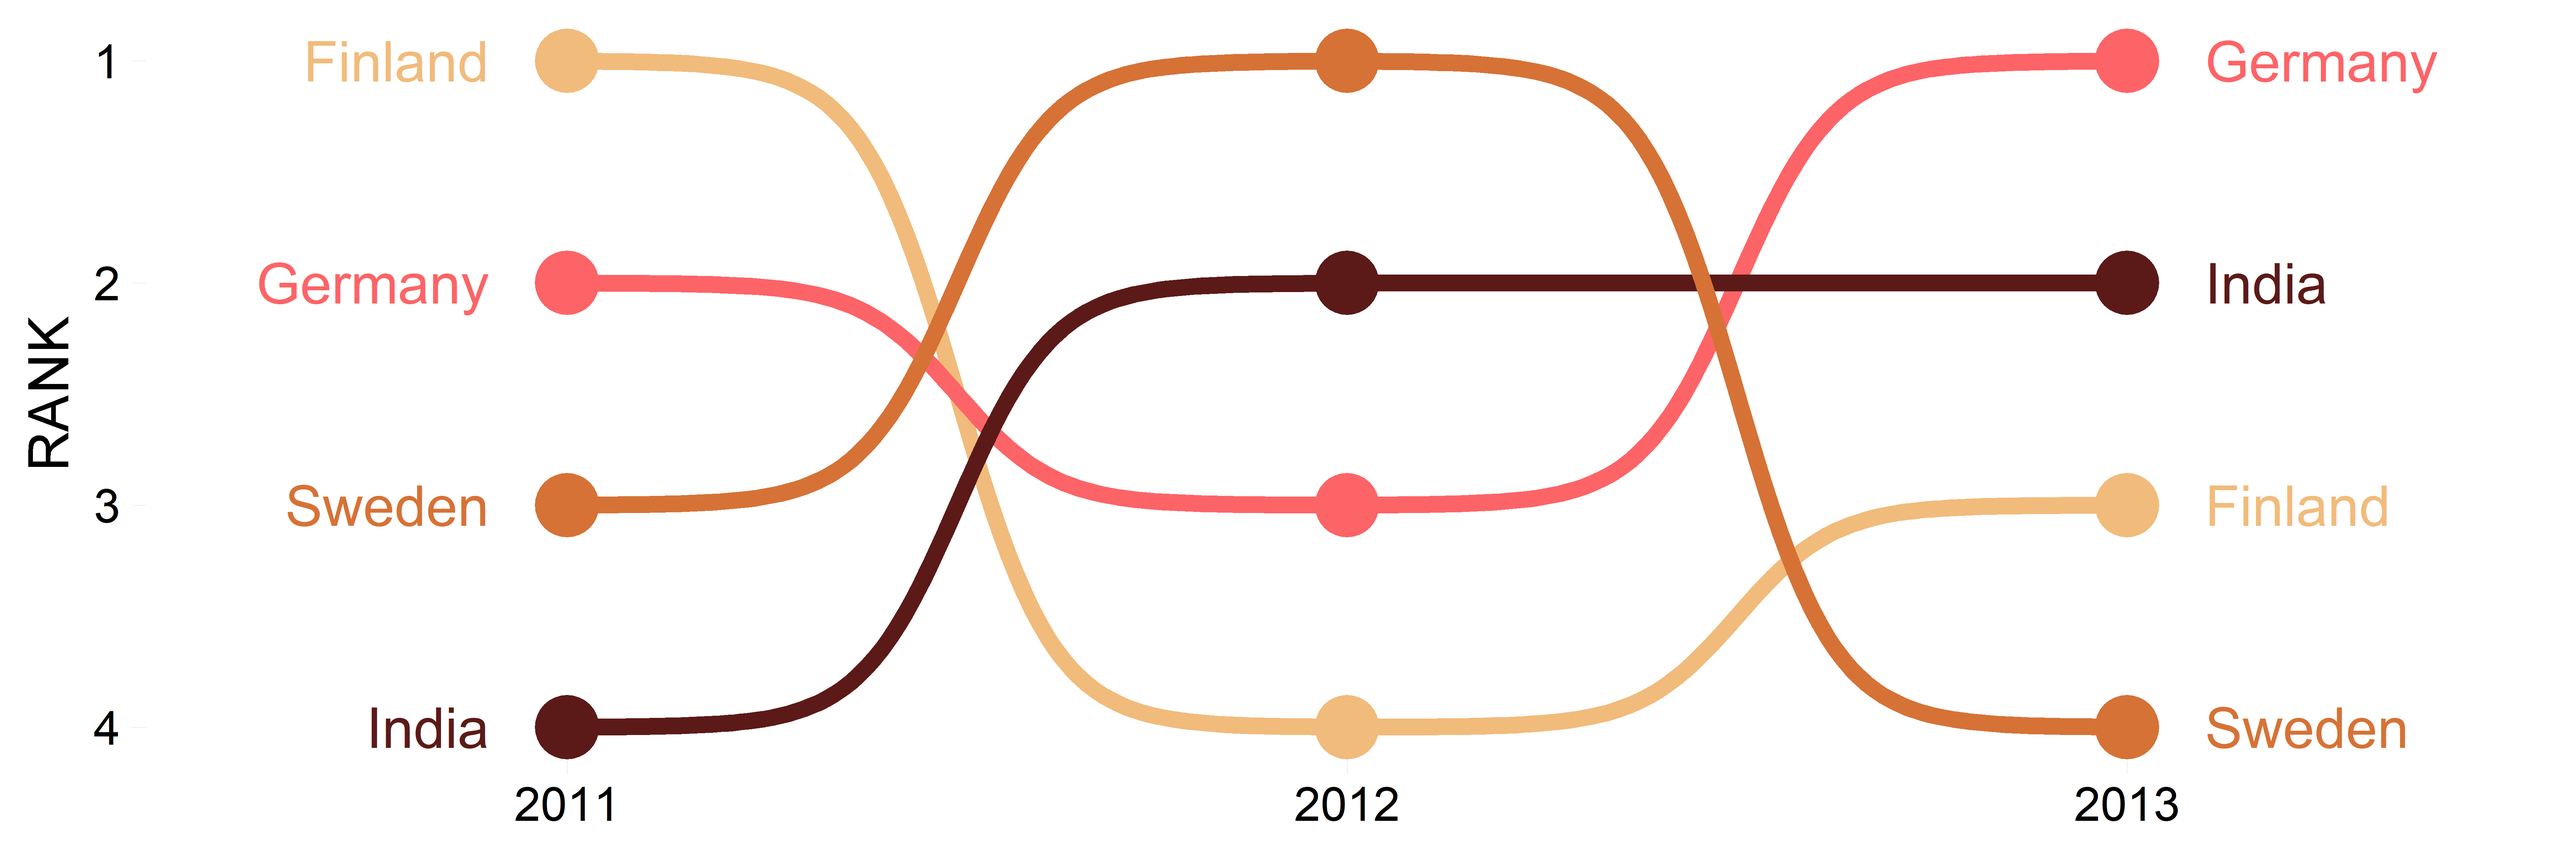
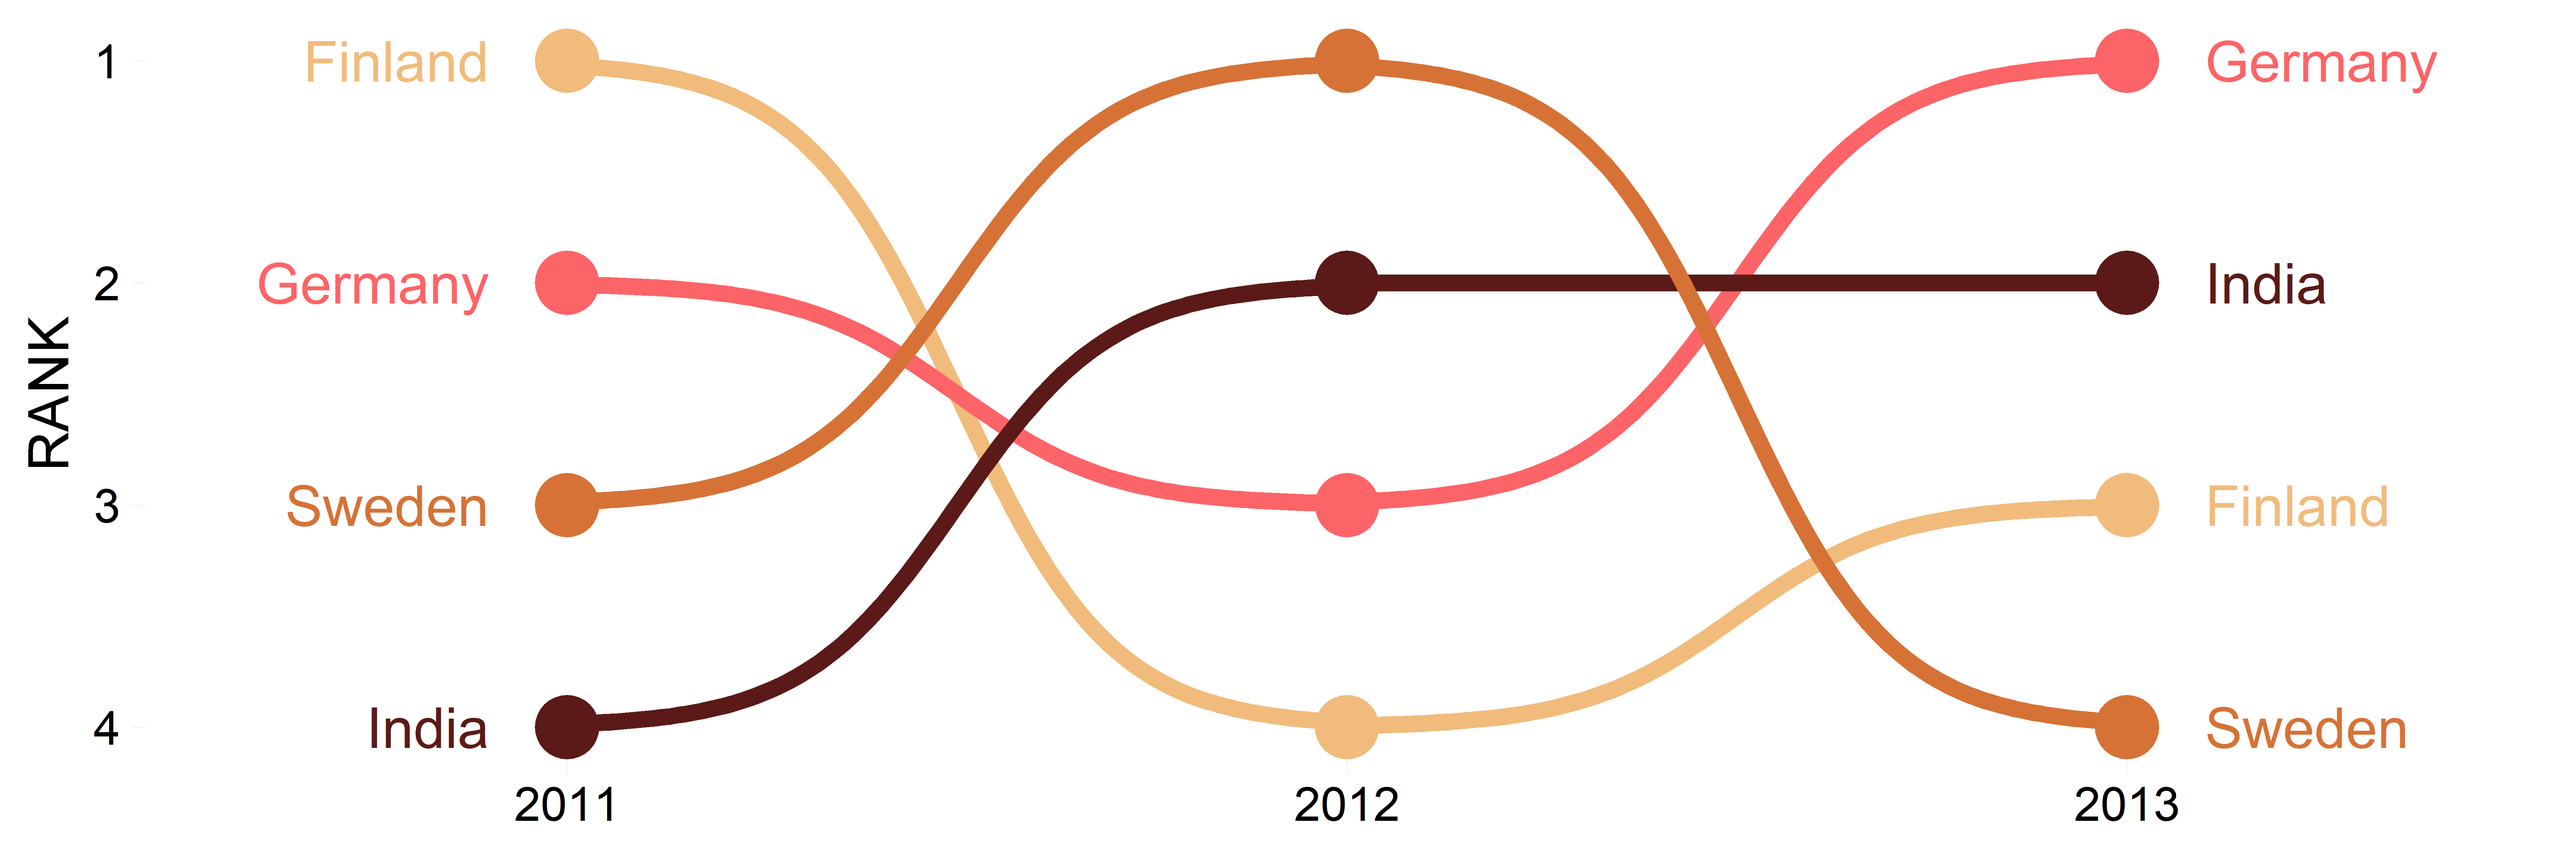
smooth outside aes

Changed region(s): [[0.2188, 0.0625, 0.8125, 0.875]]

diff --git a/README.md b/README.md
@@ -19,11 +19,27 @@ You can install the released version of ggbump from
 devtools::install_github("davidsjoberg/ggbump")
 ```
 
-## Bump chart Example
+## Bump chart Examples
 
-This is a basic example which shows you how to solve a common problem:
+Basic example:
 
 <img src="man/figures/README-main_plot-1.png" width="100%" />
+
+A more advanced example:
+
+![Example2](https://user-images.githubusercontent.com/44140737/75692519-fb146b00-5ca5-11ea-85f5-9fc33e760a7d.png)
+
+[Click here for code to the plot
+above](https://github.com/davidsjoberg/ggbump/wiki/My-year-on-Spotify)
+
+Flags could be used instead of names:
+
+![Example3](https://user-images.githubusercontent.com/44140737/76630573-8f04f300-6540-11ea-802a-653e3b509dfa.png)
+
+[Click here for code to the plot
+above](https://github.com/davidsjoberg/ggbump/wiki/geom_bump-with-flags)
+
+# Tutorial
 
 ## Prep
 
@@ -38,7 +54,7 @@ df <- tibble(country = c("India", "India", "India", "Sweden", "Sweden", "Sweden"
              year = c(2011, 2012, 2013, 2011, 2012, 2013, 2011, 2012, 2013, 2011, 2012, 2013),
              rank = c(4, 2, 2, 3, 1, 4, 2, 3, 1, 1, 4, 3))
 
-knitr::kable(df)
+knitr::kable(head(df))
 ```
 
 | country | year | rank |
@@ -49,12 +65,6 @@ knitr::kable(df)
 | Sweden  | 2011 |    3 |
 | Sweden  | 2012 |    1 |
 | Sweden  | 2013 |    4 |
-| Germany | 2011 |    2 |
-| Germany | 2012 |    3 |
-| Germany | 2013 |    1 |
-| Finland | 2011 |    1 |
-| Finland | 2012 |    4 |
-| Finland | 2013 |    3 |
 
 ## Make a bump chart
 
@@ -77,19 +87,20 @@ Improve the bump chart by adding:
     palette from `wesanderson`.
   - Remove legend and add labels at the start and end of the bumpy ride.
   - Reverse the y-axis to get rank 1 at the top.
-  - Adjust the ‘smoothness’ of the lines by setting the aestethic
-    `smooth` to 8. Higher means less smooth.
+  - Adjust the ‘smoothness’ of the lines by setting `smooth` to 8.
+    Higher means less smooth.
 
 <!-- end list -->
 
 ``` r
+
 ggplot(df, aes(year, rank, color = country)) +
   geom_point(size = 7) +
   geom_text(data = df %>% filter(year == min(year)),
             aes(x = year - .1, label = country), size = 5, hjust = 1) +
   geom_text(data = df %>% filter(year == max(year)),
             aes(x = year + .1, label = country), size = 5, hjust = 0) +
-  geom_bump(aes(smooth = 8), size = 2) +
+  geom_bump(size = 2, smooth = 8) +
   scale_x_continuous(limits = c(2010.6, 2013.4),
                      breaks = seq(2011, 2013, 1)) +
   theme_minimal_grid(font_size = 14, line_size = 0) +
@@ -99,6 +110,70 @@ ggplot(df, aes(year, rank, color = country)) +
        x = NULL) +
   scale_y_reverse() +
   scale_color_manual(values = wes_palette(n = 4, name = "GrandBudapest1"))
+#> Warning: Ignoring unknown parameters: smooth
 ```
 
 <img src="man/figures/README-unnamed-chunk-2-1.png" width="100%" />
+
+## geom\_bump with factors
+
+To use `geom_bump` with factors or character axis you need to prepare
+the data frame before. You need to prepare one column for the numeric
+position and one column with the name. If you want to have
+character/factor on both y and x you need to prepare 4 columns.
+
+``` r
+# Original df
+df <- tibble(season = c("Spring", "Summer", "Autumn", "Winter", 
+                        "Spring", "Summer", "Autumn", "Winter", 
+                        "Spring", "Summer", "Autumn", "Winter"),
+             position = c("Gold", "Gold", "Bronze", "Gold",
+                          "Silver", "Bronze", "Gold", "Silver",
+                          "Bronze", "Silver", "Silver", "Bronze"),
+             player = c(rep("David", 4),
+                        rep("Anna", 4),
+                        rep("Franz", 4)))
+
+# Create factors and numeric columns
+df <- df %>% 
+  mutate(season = factor(season, 
+                         levels = c("Spring", "Summer", "Autumn", "Winter")),
+         x = as.numeric(season),
+         position = factor(position, 
+                           levels = c("Gold", "Silver", "Bronze")),
+         y = as.numeric(position))
+
+# Add manual axis labels to plot
+p <- ggplot(df, aes(x, y, color = player)) +
+  geom_bump(size = 2, smooth = 8, show.legend = F) +
+  geom_point(size = 5, aes(shape = player)) +
+  scale_x_continuous(breaks = df$x %>% unique(),
+                     labels = df$season %>% levels()) +
+  scale_y_reverse(breaks = df$y %>% unique(),
+                     labels = df$position %>% levels())
+#> Warning: Ignoring unknown parameters: smooth
+p
+```
+
+<img src="man/figures/README-unnamed-chunk-3-1.png" width="100%" />
+
+### And some nice theme features
+
+``` r
+p +
+  theme_minimal_grid(font_size = 14, line_size = 0) +
+  theme(panel.grid.major = element_blank(),
+        axis.ticks = element_blank()) +
+  labs(y = "Medal",
+       x = "Season",
+       color = NULL,
+       shape = NULL) +
+  scale_color_manual(values = wes_palette(n = 3, name = "IsleofDogs1"))
+```
+
+<img src="man/figures/README-unnamed-chunk-4-1.png" width="100%" />
+
+## Feedback
+
+If you find any error or have suggestions for improvements you ar emore
+than welcome to contact me :)
